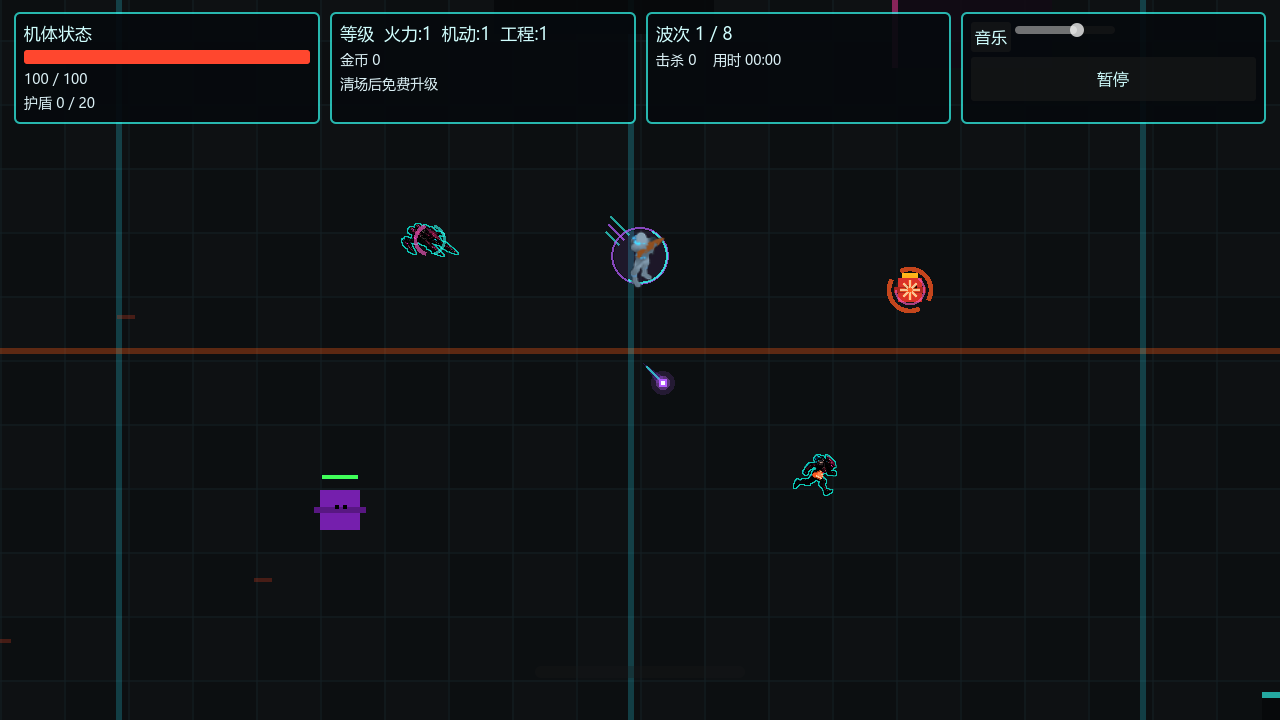
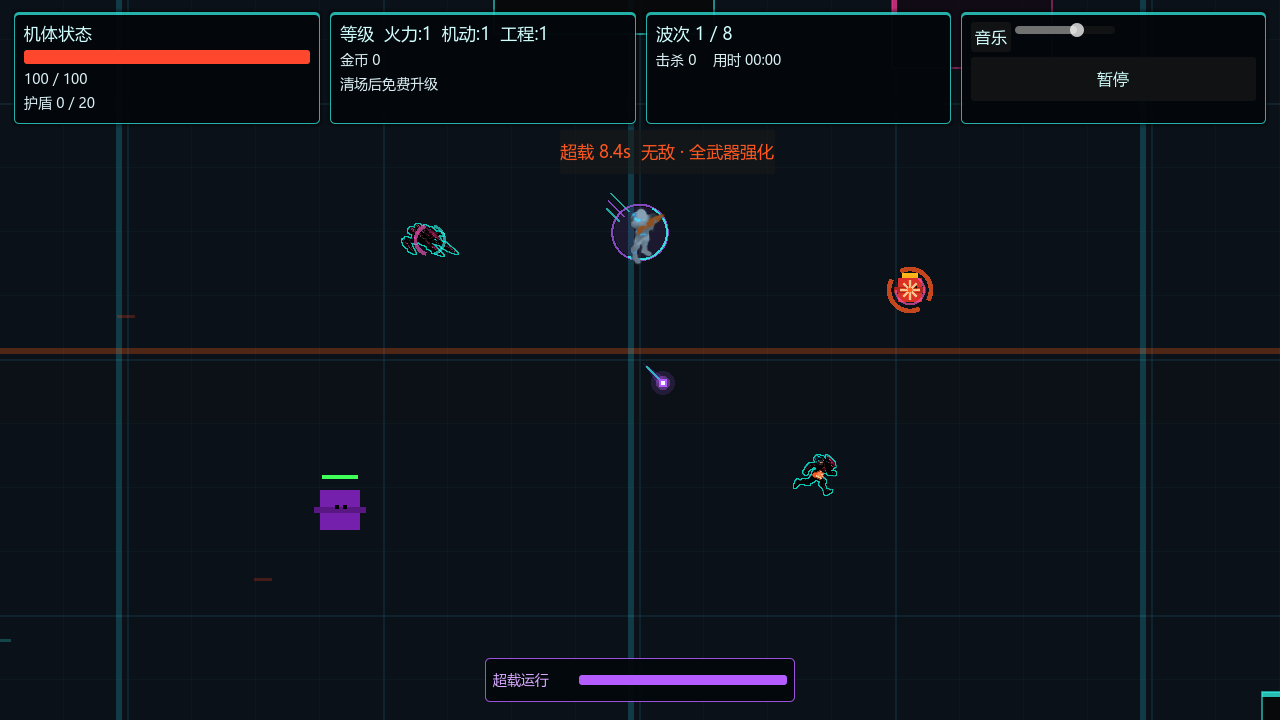
feat: refine floor and overdrive HUD

diff --git a/docs/art/reviews/environment-hud-runtime-v1.md b/docs/art/reviews/environment-hud-runtime-v1.md
@@ -1,0 +1,47 @@
+# Environment and HUD Runtime v1 Review
+
+Date: 2026-08-18
+Review state: gameplay-approved
+
+## Decision
+
+The revised industrial floor and overdrive HUD are approved for the
+five-minute-overdrive branch. The work improves visual hierarchy while reducing
+retained Canvas draw commands and preserving responsive UI contracts.
+
+## Environment result
+
+The old floor emitted roughly 49,923 tile-level base and edge commands before its
+lanes and detail marks. The revised renderer uses one ground field, 64-pixel minor
+lines, 256-pixel major lines, 512-pixel service lanes, outlined industrial plates,
+and deterministic wear markers. Its retained list is 496 draw commands, below the
+declared 900-command ceiling.
+
+The new ground remains darker than actors and combat effects. Cyan vertical service
+lanes, restrained orange horizontal lanes, and low-alpha panel accents provide
+orientation without competing with bullets or enemy silhouettes.
+
+## HUD result
+
+- Top cards now use a near-black opaque field, one-pixel cyan border, three-pixel
+  top accent, compact corners, and a restrained shadow.
+- Every progress bar has an explicit dark track with a low-alpha cyan border.
+- Overdrive charge now lives in a dedicated centered bottom capsule. Inactive
+  charge reads `超载 N%` in cyan; active state reads `超载运行` with a magenta fill
+  and border.
+- The active fill color is changed on the `StyleBoxFlat` itself. This removes the
+  old color-multiplication path that could darken or distort the intended hue.
+
+## Verification and evidence
+
+- Real 1280x720 combat capture:
+  `docs/art/previews/characters-combat/player-m2-runtime-combat-v1.png`.
+- `UITest` passes 68 assertions across 960x540, 1280x720, 1920x1080, and
+  2560x1080, including contrast, focus target, responsive minimum-size, and both
+  overdrive capsule states.
+- `PerformanceTest` passes 28 assertions and directly verifies that the floor
+  renders a non-empty retained command list below the 900-command ceiling.
+- `SmokeTest` passes 23 assertions after the floor renderer replacement.
+
+No generated source or third-party material was added, so this increment introduces
+no new asset-license dependency.
